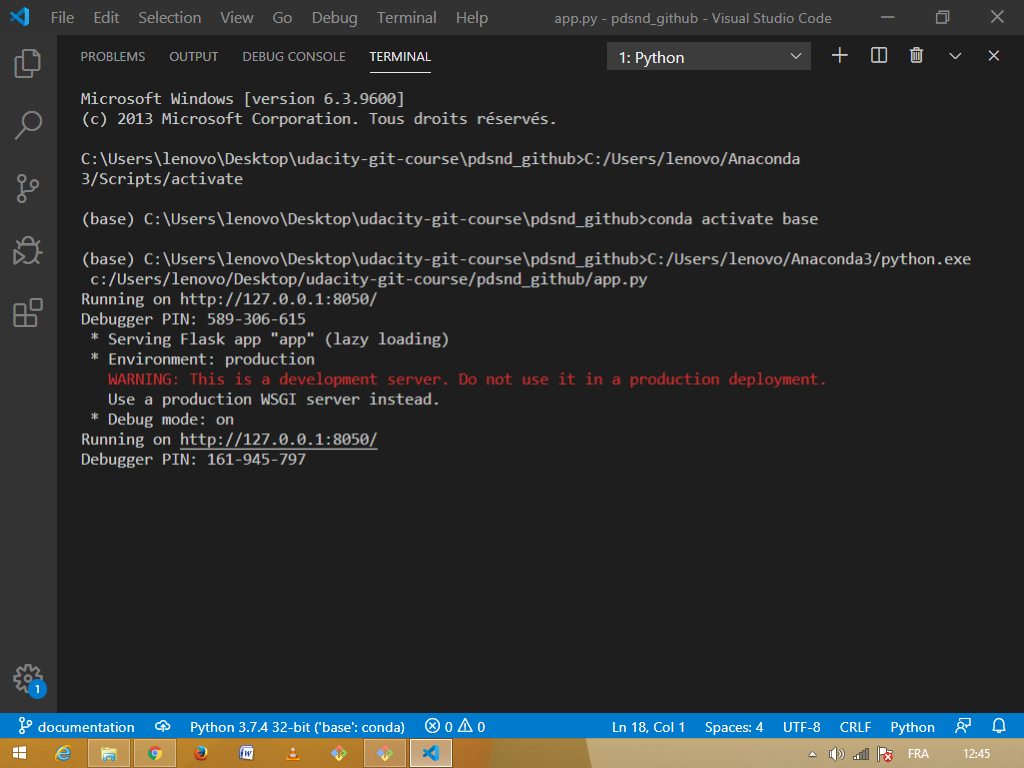
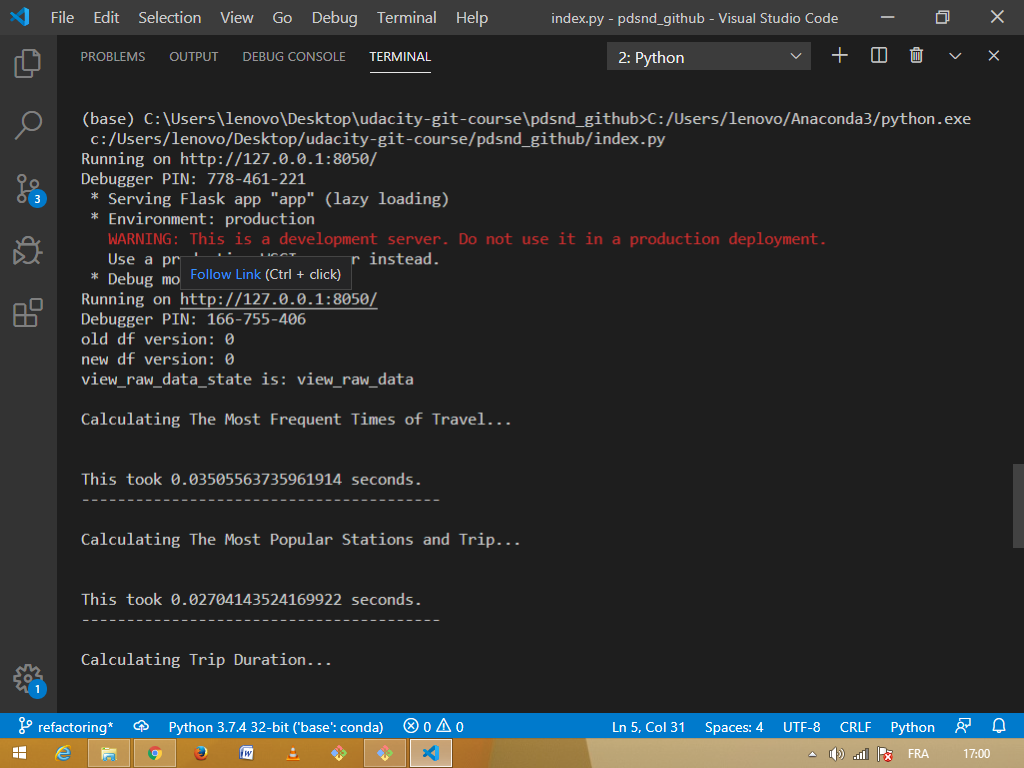
docs: Update how to run the app

diff --git a/README.md b/README.md
@@ -41,13 +41,15 @@ When you’re finished your project should look like this :
 ![folder structure](docs/images/folder_structure.png)
 
 ### Running the app
-Once everything is set up, run app.py in your terminal :
+Once everything is set up, run index.py in your terminal :
 
-`python app.py`
+`python index.py`
 
 ![app in terminal in VScode](docs/images/run_app.png)
 
+
 The output of this command will prompt you to visit http://127.0.0.1:8050/ , open the link in your web browser to start interacting with the app.
+
 
 ![app in browser](docs/images/app.png)
 
